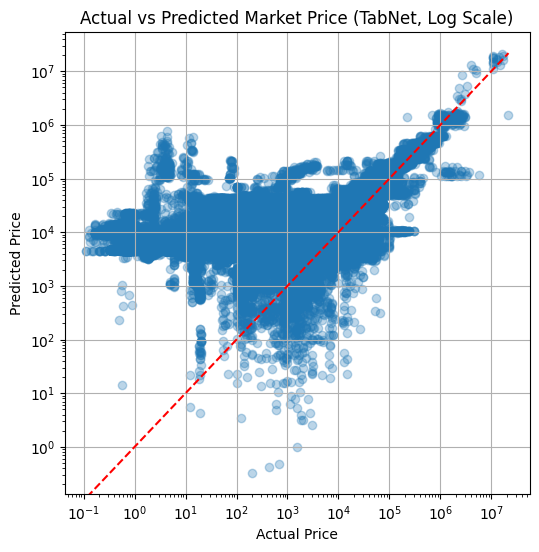
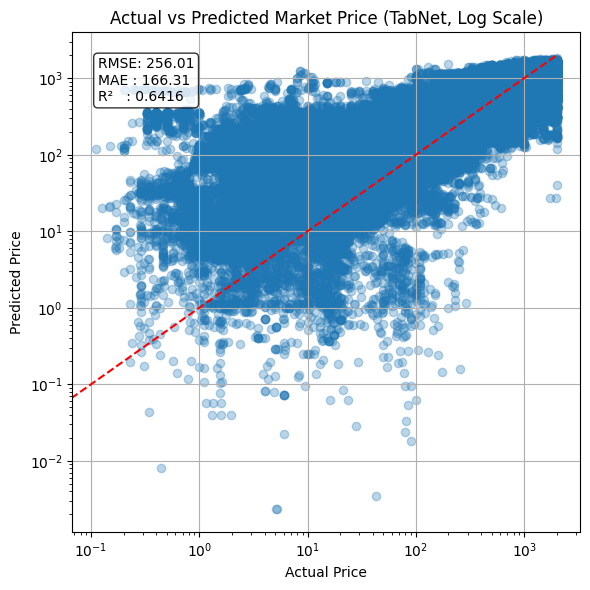
fixed

diff --git a/Daniela/HybridModel/hybridModel-PCA+ExtraTrees.py b/Daniela/HybridModel/hybridModel-PCA+ExtraTrees.py
@@ -2,9 +2,7 @@
 import os, zipfile
 from sklearn.metrics import mean_squared_error
 import numpy as np
-from sklearn.metrics import mean_squared_error, mean_absolute_error, r2_score
-import matplotlib.pyplot as plt
-from matplotlib.ticker import FuncFormatter
+
 os.makedirs("/root/.kaggle", exist_ok=True)
 #!mv kaggle.json /root/.kaggle/
 #!chmod 600 /root/.kaggle/kaggle.json
@@ -24,14 +22,22 @@ from sklearn.model_selection import train_test_split, GridSearchCV
 from sklearn.ensemble import ExtraTreesRegressor
 from sklearn.metrics import mean_squared_error, r2_score
 
-# ========== 4. Load and Preprocess Data ==========
+# ========== 4. Load and Preprocess Data with Outlier Removal ==========
 df = pd.read_csv("food_prices_data/wfp_food_prices_database.csv", low_memory=False)
 
 # Drop rows with missing target
 df = df.dropna(subset=['mp_price'])
 
+# Outlier removal using IQR method on original target
+Q1 = df['mp_price'].quantile(0.25)
+Q3 = df['mp_price'].quantile(0.75)
+IQR = Q3 - Q1
+lower_bound = Q1 - 1.5 * IQR
+upper_bound = Q3 + 1.5 * IQR
+df = df[(df['mp_price'] >= lower_bound) & (df['mp_price'] <= upper_bound)]
+
 # Select relevant features
-df = df[[
+df = df[[  
     'adm0_name', 'adm1_name', 'mkt_name', 'cm_name',
     'cur_name', 'pt_name', 'um_name', 'mp_month', 'mp_year', 'mp_price'
 ]].dropna()
@@ -40,6 +46,7 @@ df = df[[
 cat_cols = ['adm0_name', 'adm1_name', 'mkt_name', 'cm_name', 'cur_name', 'pt_name', 'um_name']
 for col in cat_cols:
     df[col] = LabelEncoder().fit_transform(df[col])
+
 
 # ========== 5. Prepare Features & Target ==========
 X = df.drop(columns=['mp_price'])
@@ -71,7 +78,24 @@ y_train_log_small = y_train_log[:200000]
 grid_search = GridSearchCV(etr, param_grid, cv=3, scoring='r2', verbose=1, n_jobs=1)
 grid_search.fit(X_train_small, y_train_log_small)
 
+# ========== 9. Evaluate ==========
+y_pred_log = grid_search.predict(X_test)
+y_pred = np.expm1(y_pred_log)
 
+rmse = np.sqrt(mean_squared_error(y_test, y_pred))
+r2 = r2_score(y_test, y_pred)
+
+print("\nExtraTrees Regressor (Hybrid Model: PCA + log target)")
+print(f"Best Params: {grid_search.best_params_}")
+print(f"RMSE: {rmse:.2f}")
+print(f"R² Score: {r2:.4f}")
+
+
+from sklearn.metrics import mean_squared_error, mean_absolute_error, r2_score
+import matplotlib.pyplot as plt
+from matplotlib.ticker import FuncFormatter
+
+# ========== 10. Predict & Evaluate (Hybrid Model) ==========
 y_pred_log_hybrid = grid_search.predict(X_test)
 y_pred_hybrid = np.expm1(y_pred_log_hybrid)
 
@@ -85,7 +109,7 @@ print(f"✅ RMSE: {rmse_hybrid:.2f}")
 print(f"✅ MAE : {mae_hybrid:.2f}")
 print(f"✅ R²  : {r2_hybrid:.4f}")
 
-# ========== 9. Log-Scale Scatter Plot ==========
+# ========== 11. Log-Scale Scatter Plot ==========
 plt.figure(figsize=(6, 6))
 plt.scatter(y_test, y_pred_hybrid, alpha=0.3)
 plt.plot(
@@ -98,9 +122,11 @@ plt.ylabel("Predicted Price")
 plt.title("Actual vs Predicted Market Price (Hybrid Model, Log Scale)")
 plt.grid(True)
 
+# Apply log scale for better visibility of distribution
 plt.xscale('log')
 plt.yscale('log')
 
+# Metrics box
 plt.text(
     0.05, 0.95,
     f"RMSE: {rmse_hybrid:.2f}\nMAE : {mae_hybrid:.2f}\nR²   : {r2_hybrid:.4f}",

diff --git a/Daniela/TabNet/tabnet.py b/Daniela/TabNet/tabnet.py
@@ -6,8 +6,6 @@ os.makedirs("/root/.kaggle", exist_ok=True)
 #!mv kaggle.json /root/.kaggle/
 #!chmod 600 /root/.kaggle/kaggle.json
 #!kaggle datasets download -d salehahmedrony/global-food-prices
-import matplotlib.pyplot as plt
-from sklearn.metrics import mean_squared_error, mean_absolute_error, r2_score
 
 with zipfile.ZipFile("global-food-prices.zip", 'r') as zip_ref:
     zip_ref.extractall("food_prices_data")
@@ -15,16 +13,28 @@ with zipfile.ZipFile("global-food-prices.zip", 'r') as zip_ref:
 # ========== 2. Install TabNet Dependencies ==========
 #!pip install pytorch-tabnet category_encoders
 
-# ========== 3. Load and Preprocess Data ==========
+# ========== 3. Load and Preprocess Data with Outlier Removal ==========
 import pandas as pd
 
 df = pd.read_csv("/content/food_prices_data/wfp_food_prices_database.csv", low_memory=False)
 
+# Drop rows with missing target
 df = df.dropna(subset=['mp_price'])
-df = df[[  # Select relevant columns
+
+# Remove outliers in target using IQR
+Q1 = df['mp_price'].quantile(0.25)
+Q3 = df['mp_price'].quantile(0.75)
+IQR = Q3 - Q1
+lower_bound = Q1 - 1.5 * IQR
+upper_bound = Q3 + 1.5 * IQR
+df = df[(df['mp_price'] >= lower_bound) & (df['mp_price'] <= upper_bound)]
+
+# Keep only relevant columns
+df = df[[  
     'adm0_name', 'adm1_name', 'mkt_name', 'cm_name',
     'cur_name', 'pt_name', 'um_name', 'mp_month', 'mp_year', 'mp_price'
 ]].dropna()
+
 
 # ========== 4. Encode Categoricals with OrdinalEncoder ==========
 from category_encoders import OrdinalEncoder
@@ -65,17 +75,25 @@ tabnet.fit(
     batch_size=1024, virtual_batch_size=128
 )
 
+
+
+
+import matplotlib.pyplot as plt
+from sklearn.metrics import mean_squared_error, mean_absolute_error, r2_score
+
+# ========== 1. Predict & Evaluate ==========
 y_pred = tabnet.predict(X_test_np).flatten()
 
 rmse = np.sqrt(mean_squared_error(y_test, y_pred))
 mae = mean_absolute_error(y_test, y_pred)
 r2 = r2_score(y_test, y_pred)
 
-print(f"\nTabNet Evaluation")
-print(f"RMSE: {rmse:.2f}")
-print(f"MAE : {mae:.2f}")
-print(f"R²  : {r2:.4f}")
+print(f"\n📊 TabNet Evaluation")
+print(f"✅ RMSE: {rmse:.2f}")
+print(f"✅ MAE : {mae:.2f}")
+print(f"✅ R²  : {r2:.4f}")
 
+# ========== 2. Log Scale Scatter Plot with Metrics ==========
 plt.figure(figsize=(6, 6))
 plt.scatter(y_test, y_pred, alpha=0.3)
 plt.plot([y_test.min(), y_test.max()], [y_test.min(), y_test.max()], 'r--')
@@ -98,4 +116,3 @@ plt.text(
 
 plt.tight_layout()
 plt.show()
-
